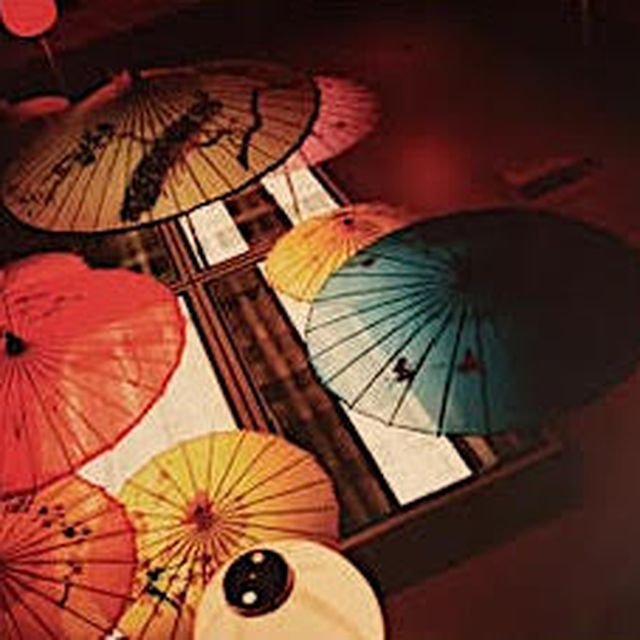
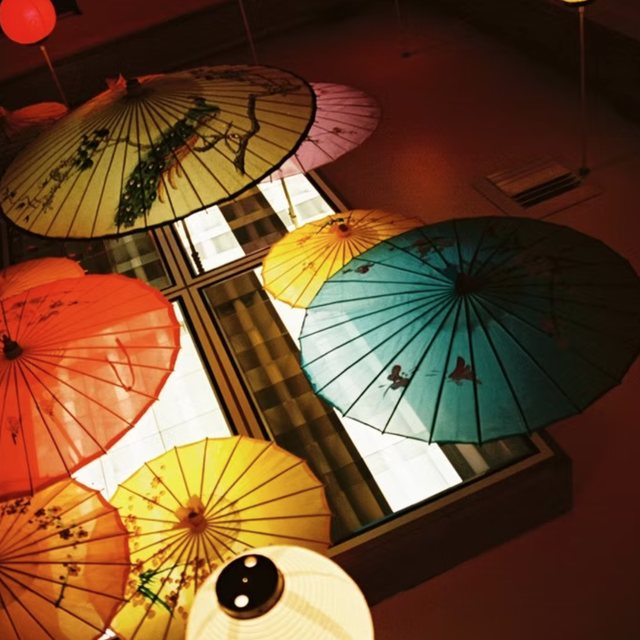
Add files via upload
Added three photos, fixed resume page.

diff --git a/photos.html b/photos.html
@@ -116,8 +116,8 @@
       <a class="tile" data-caption="Thomas 2001" data-meta="Waiting for a player" data-tags="built" href="images/photography/organ-full.jpg" target="_blank" rel="noopener">
         <img src="images/photography/organ.jpg" data-full="images/photography/organ-full.jpg" alt="A vintage Thomas 2001 electric organ, white with a black bench, on a terrazzo floor" width="640" height="640" loading="lazy" decoding="async">
       </a>
-      <a class="tile" data-caption="Frankie Fresh" data-meta="DJ, old friend" data-tags="characters" href="images/photography/friends-full.jpg" target="_blank" rel="noopener">
-        <img src="images/photography/friends.jpg" data-full="images/photography/friends-full.jpg" alt="Frankie Fresh and a friend in front of a framed photograph of a pink car" width="640" height="640" loading="lazy" decoding="async">
+      <a class="tile" data-caption="Frankie Fresh" data-meta="Me and an old friend. Still got love." data-tags="characters" href="images/photography/friends-full.jpg" target="_blank" rel="noopener">
+        <img src="images/photography/friends.jpg" data-full="images/photography/friends-full.jpg" alt="Beau and his old friend DJ Frankie Fresh in front of a framed photograph of a pink car" width="640" height="640" loading="lazy" decoding="async">
       </a>
       <a class="tile" data-caption="Mojave Heat" data-meta="Mojave Desert" data-tags="road" href="images/photography/rv-full.jpg" target="_blank" rel="noopener">
         <img src="images/photography/rv.jpg" data-full="images/photography/rv-full.jpg" alt="The charred steel frame of a burned-out RV standing alone on a gravel lot in the desert, under a teal sky with mountains and utility poles behind" width="640" height="640" loading="lazy" decoding="async">
@@ -148,6 +148,9 @@
       </a>
       <a class="tile" data-caption="Cypress Allee" data-meta="Point Reyes" data-tags="road" href="images/photography/cypress-tunnel-full.jpg" target="_blank" rel="noopener">
         <img src="images/photography/cypress-tunnel.jpg" data-full="images/photography/cypress-tunnel-full.jpg" alt="A narrow road running through a tunnel of arching, wind-twisted cypress trees toward a white building at the far end" width="640" height="640" loading="lazy" decoding="async">
+      </a>
+      <a class="tile" data-caption="Thrift Shop" data-meta="East 14th, San Leandro · Film" data-tags="streets film" href="images/photography/thrift-shop-full.jpg" target="_blank" rel="noopener">
+        <img src="images/photography/thrift-shop.jpg" data-full="images/photography/thrift-shop-full.jpg" alt="A thrift store window at night, lit mannequins and racks of clothes behind streaks of passing headlights" width="640" height="640" loading="lazy" decoding="async">
       </a>
       <a class="tile" data-caption="Sad Couch" data-meta="Everything must go" data-tags="streets" href="images/photography/quitting-business-full.jpg" target="_blank" rel="noopener">
         <img src="images/photography/quitting-business.jpg" data-full="images/photography/quitting-business-full.jpg" alt="A shuttered storefront with QUITTING BUSINESS SALE painted across boarded windows and a flowered loveseat abandoned on the curb below, in sepia" width="640" height="640" loading="lazy" decoding="async">
@@ -215,6 +218,9 @@
       <a class="tile" data-caption="The Elephant Cannon" data-meta="Treasure Island" data-tags="characters" href="images/photography/turret-full.jpg" target="_blank" rel="noopener">
         <img src="images/photography/turret.jpg" data-full="images/photography/turret-full.jpg" alt="A decommissioned naval gun turret painted with a grinning cartoon face and pink tongue" width="640" height="640" loading="lazy" decoding="async">
       </a>
+      <a class="tile" data-caption="Mobile Device" data-meta="Lit by the screen · Film" data-tags="characters film" href="images/photography/mobile-device-full.jpg" target="_blank" rel="noopener">
+        <img src="images/photography/mobile-device.jpg" data-full="images/photography/mobile-device-full.jpg" alt="A blurred figure in a red-washed room, face glowing in the light of the phone held in both hands" width="640" height="640" loading="lazy" decoding="async">
+      </a>
       <a class="tile" data-caption="Long Day" data-meta="The room didn’t notice" data-tags="characters" href="images/photography/long-day-full.jpg" target="_blank" rel="noopener">
         <img src="images/photography/long-day.jpg" data-full="images/photography/long-day-full.jpg" alt="A man in a blue shirt slumped in a leather armchair, hand on his forehead, before a wall of diagonal wooden slats" width="640" height="640" loading="lazy" decoding="async">
       </a>
@@ -253,6 +259,9 @@
       </a>
       <a class="tile" data-caption="Port of Oakland" data-meta="Where the loading sheets begin" data-tags="water" href="images/photography/port-of-oakland-full.jpg" target="_blank" rel="noopener">
         <img src="images/photography/port-of-oakland.jpg" data-full="images/photography/port-of-oakland-full.jpg" alt="Container cranes at the Port of Oakland silhouetted against the sun, light streaking across the tidal flats" width="640" height="640" loading="lazy" decoding="async">
+      </a>
+      <a class="tile" data-caption="Blue Shift" data-meta="Stretch wrap, before the night begins" data-tags="built" href="images/photography/blue-shift-full.jpg" target="_blank" rel="noopener">
+        <img src="images/photography/blue-shift.jpg" data-full="images/photography/blue-shift-full.jpg" alt="A wall of blue stretch-wrap rolls stacked end-on, their cardboard cores forming a field of circles" width="640" height="640" loading="lazy" decoding="async">
       </a>
       <a class="tile" data-caption="Oakland Riviera" data-meta="A ray in the shallows" data-tags="characters water" href="images/photography/oakland-riviera-full.jpg" target="_blank" rel="noopener">
         <img src="images/photography/oakland-riviera.jpg" data-full="images/photography/oakland-riviera-full.jpg" alt="Looking down into green and gray bay water at a ray gliding through the shallows" width="640" height="640" loading="lazy" decoding="async">
@@ -305,7 +314,7 @@
       <a class="tile" data-caption="Punch Card" data-meta="Concrete, in and out" data-tags="built" href="images/photography/punch-card-full.jpg" target="_blank" rel="noopener">
         <img src="images/photography/punch-card.jpg" data-full="images/photography/punch-card-full.jpg" alt="A concrete facade of alternating recessed and projecting square panels above an entrance" width="640" height="640" loading="lazy" decoding="async">
       </a>
-      <a class="tile" data-caption="Sake Bomb" data-meta="Long exposure, no tripod, table under siege" data-tags="built" href="images/photography/sake-bomb-full.jpg" target="_blank" rel="noopener">
+      <a class="tile" data-caption="Sake Bomb" data-meta="Long exposure, no tripod, table under siege · Film" data-tags="built film" href="images/photography/sake-bomb-full.jpg" target="_blank" rel="noopener">
         <img src="images/photography/sake-bomb.jpg" data-full="images/photography/sake-bomb-full.jpg" alt="Glowing paper umbrellas in red, blue and yellow hanging from a ceiling, shot as a long exposure" width="640" height="640" loading="lazy" decoding="async">
       </a>
       <a class="tile" data-caption="The Crowd" data-meta="Port of Oakland, everyone facing the same way" data-tags="water characters" href="images/photography/the-crowd-full.jpg" target="_blank" rel="noopener">

diff --git a/shared.css b/shared.css
@@ -1179,20 +1179,30 @@ html.frame .case-page-card::after{ flex-shrink:0; }
 /* gallery pages: a little more air under the last row of tiles */
 .page-hero .page-card:has(> .gallery-grid:last-child){ padding-bottom: calc(2 * var(--u)); }
 
-/* ---------- Résumé page: the whole résumé on the first screen ----------
-   The copy sits at the top and the résumé takes whatever height is left on the first screen, so it shows in
-   full on arrival (never wider than pinstripe 2 -> 6, or 2 -> 4 on phones). site.js (section 10) measures the
-   space and sets --sheet-h; without JavaScript the résumé simply shows at full column width. The download
-   button waits below. On phones the copy starts below the nav fade. */
+/* ---------- Résumé page ----------
+   Wide screens: copy and buttons on the left (pinstripes 2 -> 4), the résumé on the right (4 -> 6), both starting
+   at the same line, so the whole page shows on arrival at a readable size. site.js (section 10) shrinks the
+   résumé only if a short screen can't fit it. Phones: one column; copy, then the résumé at full column width
+   (2 -> 4), then the buttons. */
 .page-hero:has(.resume-thumb){ align-items:flex-start; }
-.resume-wrap .resume-thumb{ margin-top:2rem; }
-.resume-wrap .resume-sheet{ width:auto; height: var(--sheet-h, calc(4 * var(--grid-gap) * 2860 / 2210)); max-width: calc(4 * var(--grid-gap)); aspect-ratio: 2210 / 2860; }
+.resume-wrap .resume-sheet{ width:auto; height: var(--sheet-h, calc(2 * var(--grid-gap) * 2860 / 2210)); max-width: calc(2 * var(--grid-gap)); aspect-ratio: 2210 / 2860; }
 .resume-wrap .resume-sheet img{ position:absolute; inset:0; width:100%; height:100%; object-fit:contain; }   /* absolute, so the 2210px image never sets the card's width */
-.resume-wrap > .cta{ margin-top:2rem; }
+@media (min-width: 1140px){   /* side by side once there is room; narrower screens stack */
+  .resume-wrap{
+    display:grid;
+    grid-template-columns: calc(2 * var(--grid-gap)) auto;
+    grid-template-rows: repeat(5, min-content) 1fr;   /* eyebrow, heading, copy, two buttons, then slack, so the left column stays packed at the top */
+    align-items:start;
+  }
+  .resume-wrap > .eyebrow, .resume-wrap > h1, .resume-wrap > p{ grid-column:1; }
+  .resume-wrap > h1{ font-size: clamp(3rem, 5.2vw, 5rem); }
+  .resume-wrap > .cta{ grid-column:1; width: calc(2 * var(--grid-gap) - 1.25rem); }   /* stops short of the card */
+  .resume-wrap .resume-thumb{ grid-column:2; grid-row: 1 / span 6; margin: calc(-0.25 * var(--grid-gap)) 0 0 0; }   /* the card's edge sits on pinstripe 4, the résumé's top level with the eyebrow */
+}
 @media (max-width: 720px){
   .page-hero:has(.resume-thumb){ padding-top: calc(0.9rem + 78px); }   /* nav pill 0.5rem + 0.4rem padding + a 26px icon, then the two-icon fade */
   .resume-wrap .resume-thumb{ margin-top:1.5rem; }
-  .resume-wrap .resume-sheet{ height: var(--sheet-h, calc(2 * var(--mobile-grid-gap) * 2860 / 2210)); max-width: calc(2 * var(--mobile-grid-gap)); }
+  .resume-wrap .resume-sheet{ height: calc(2 * var(--mobile-grid-gap) * 2860 / 2210); max-width: calc(2 * var(--mobile-grid-gap)); }
 }
 
 /* ---------- Phones: pages without a card fade their content out under the nav ----------

diff --git a/site.js b/site.js
@@ -588,6 +588,7 @@
   function absTop(el){ var t = 0; while (el){ t += el.offsetTop; el = el.offsetParent; } return t; }   // ignores reveal transforms
   function fit(){
     if (window.innerWidth === lastW) return;
+    if (phone.matches){ lastW = window.innerWidth; sheet.style.removeProperty('--sheet-h'); return; }   // phones: full column width, no fitting
     lastW = window.innerWidth;
     sheet.style.removeProperty('--sheet-h');
     var maxW = parseFloat(getComputedStyle(sheet).maxWidth) || sheet.offsetWidth;

diff --git a/resume.html b/resume.html
@@ -62,6 +62,7 @@
       <span class="resume-chip-rail" aria-hidden="true"><span class="resume-thumb-chip">Open PDF ↗</span></span>
     </div>
     <a class="cta" href="resume.pdf" download>Download résumé ↓</a>
+    <a class="cta cta-stacked" href="index.html">Back to home ←</a>
   </div>
 </section>
 
